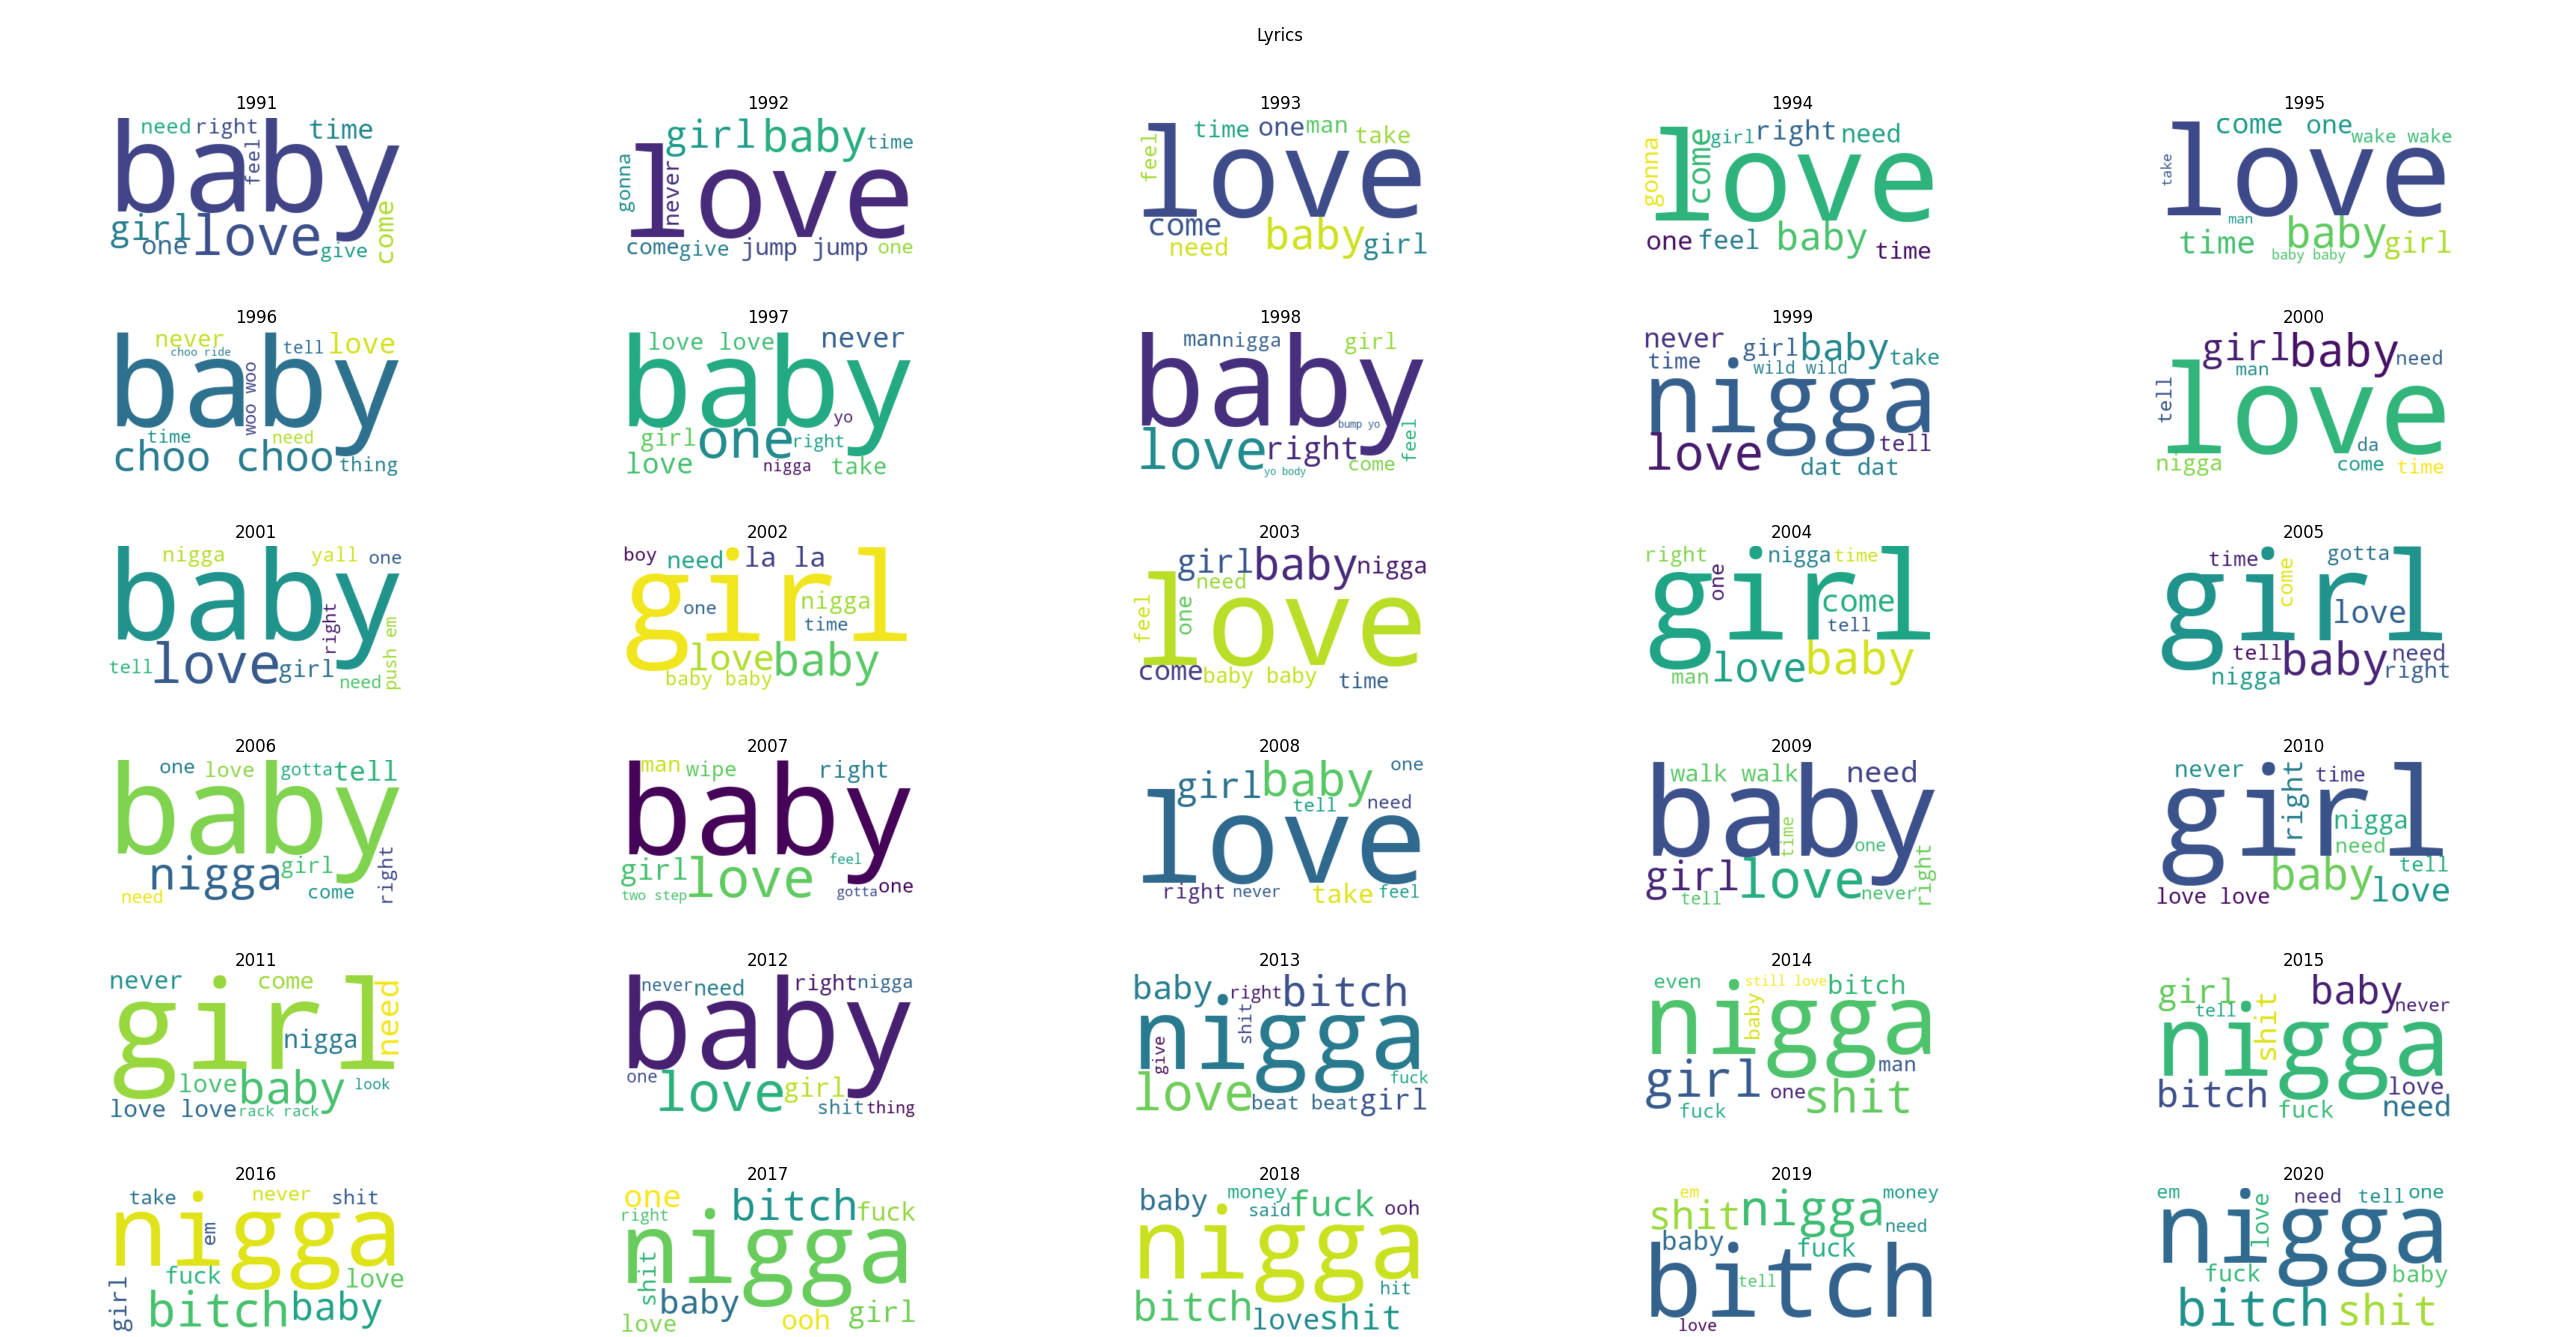
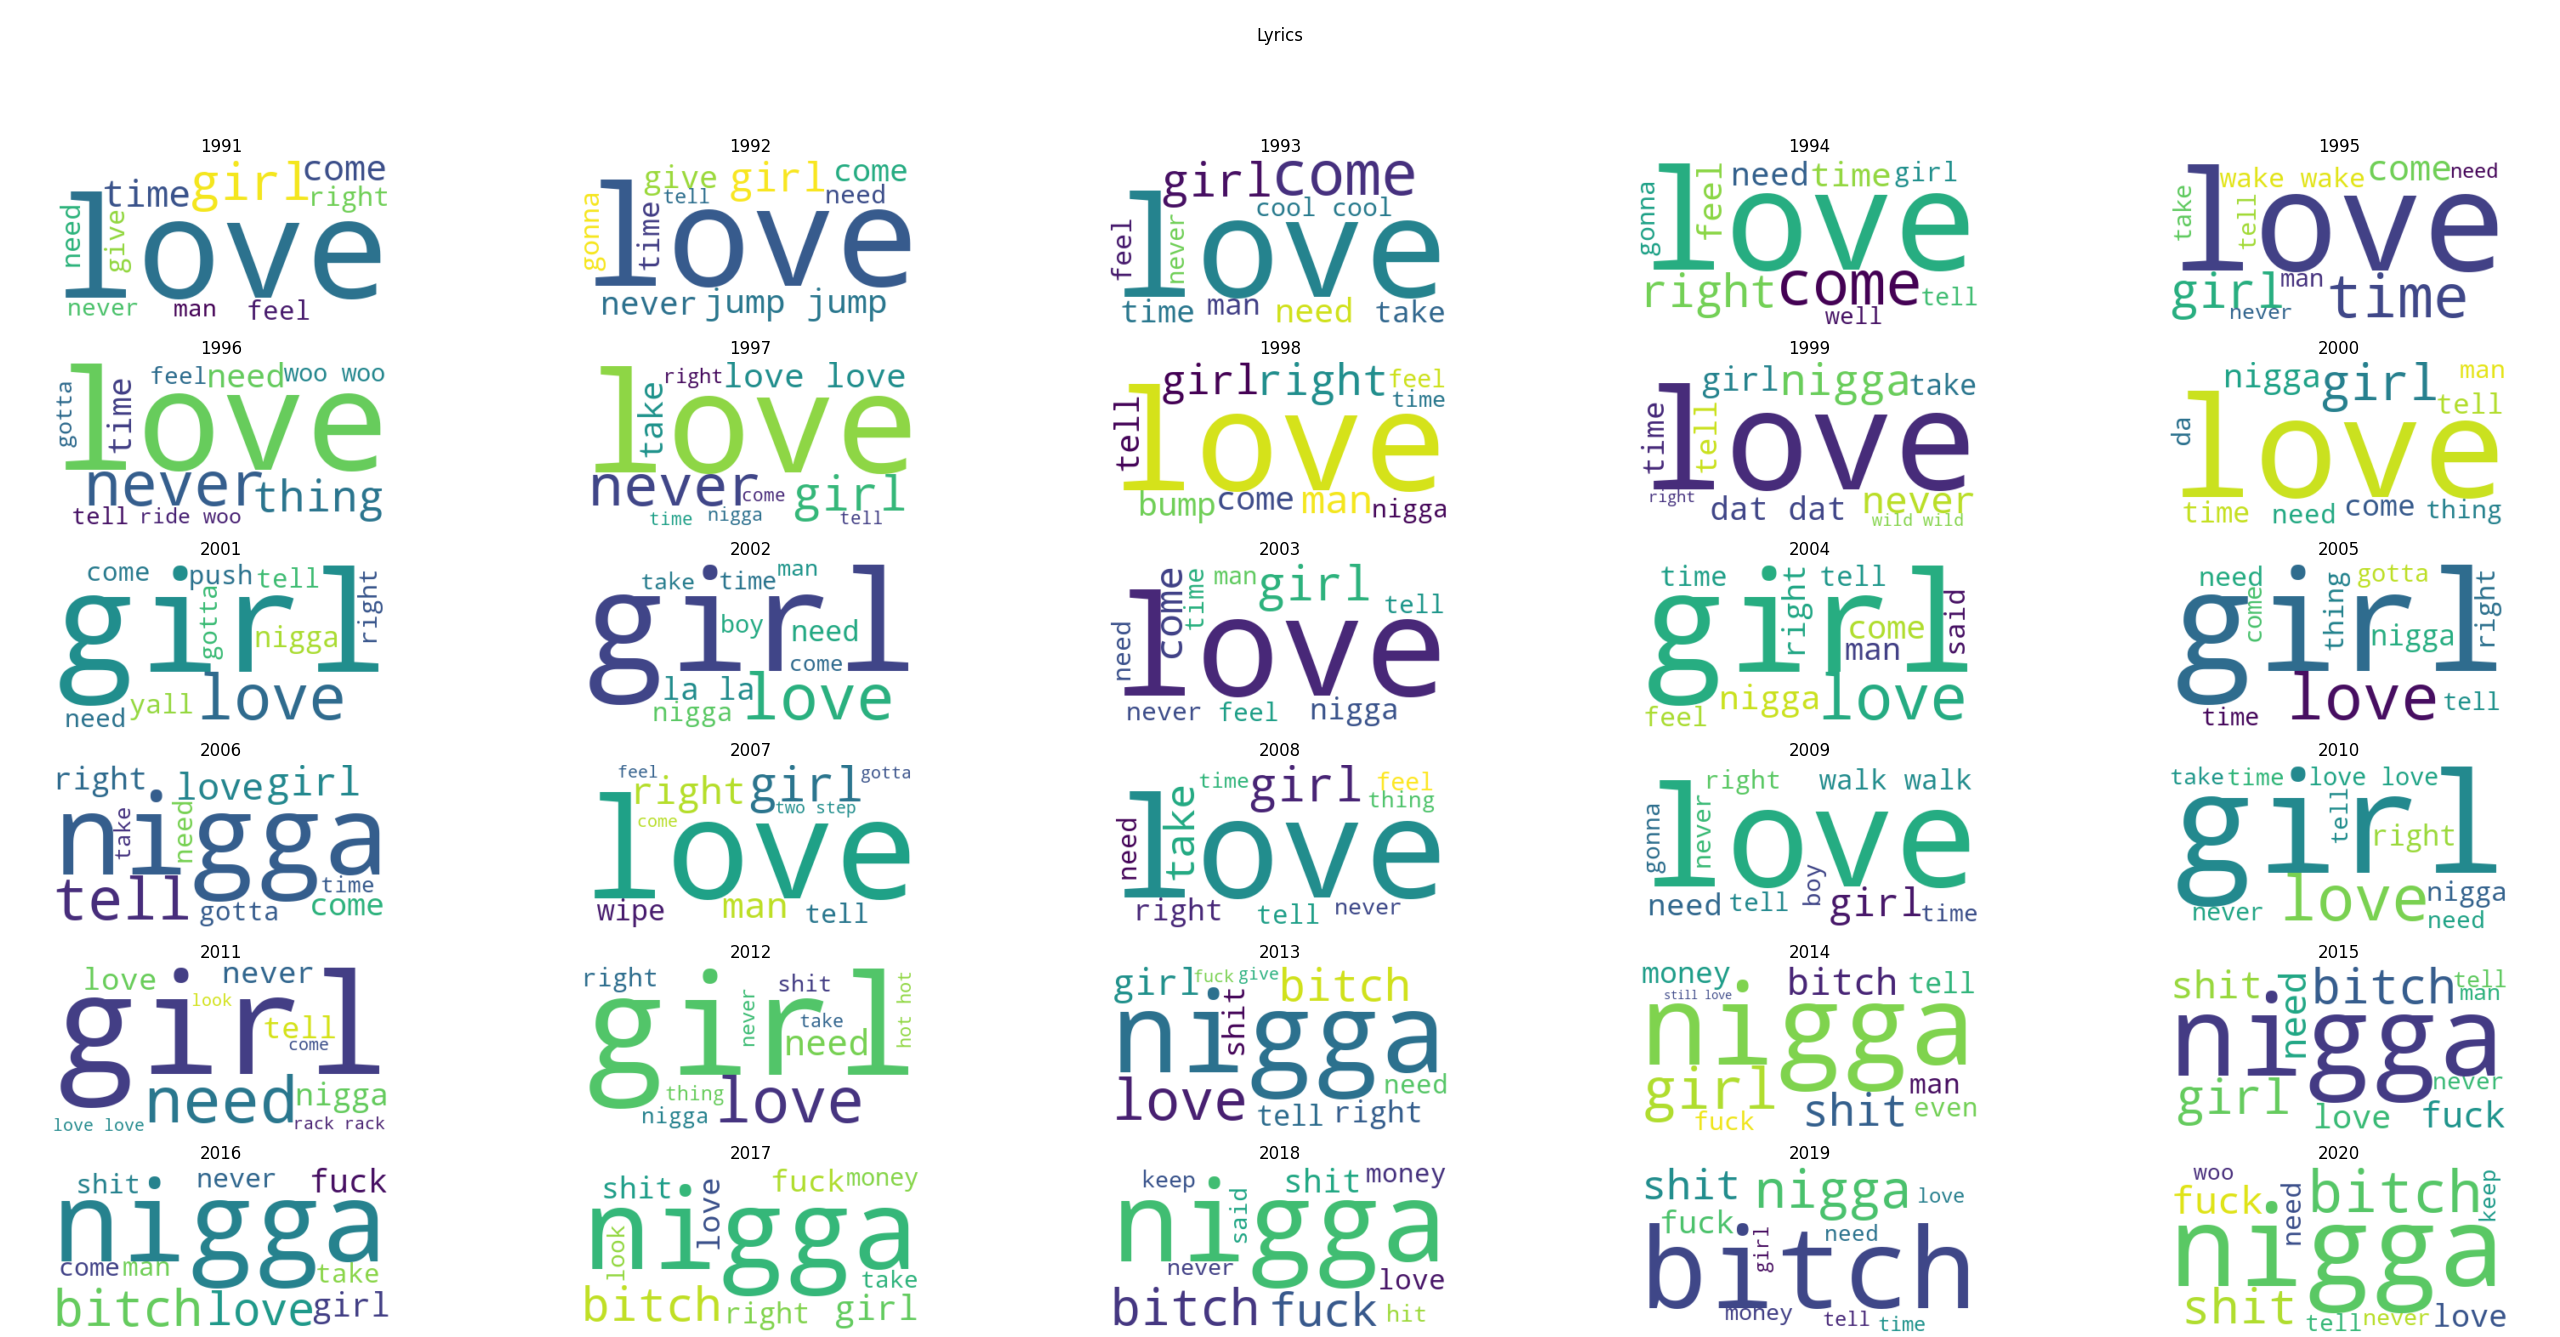
Added stopwords

diff --git a/main.py b/main.py
@@ -18,7 +18,9 @@ stopwords = ['im', 'got', 'yeah', 'na',
              'cause', 'gon', 'go', 'uh',
              'make', 'versace', 'put',
              'thoia', 'ya', 'hol', 'thats',
-             'wanna']
+             'wanna', 'em', 'ooh', 'yo', 'choo',
+             'baby baby', 'baby', 'beat beat', 'beat',
+             'one', 'wake wake']
 
 # Add/Remove years you want displayed
 years = ['1991', '1992', '1993', '1994', '1995',
